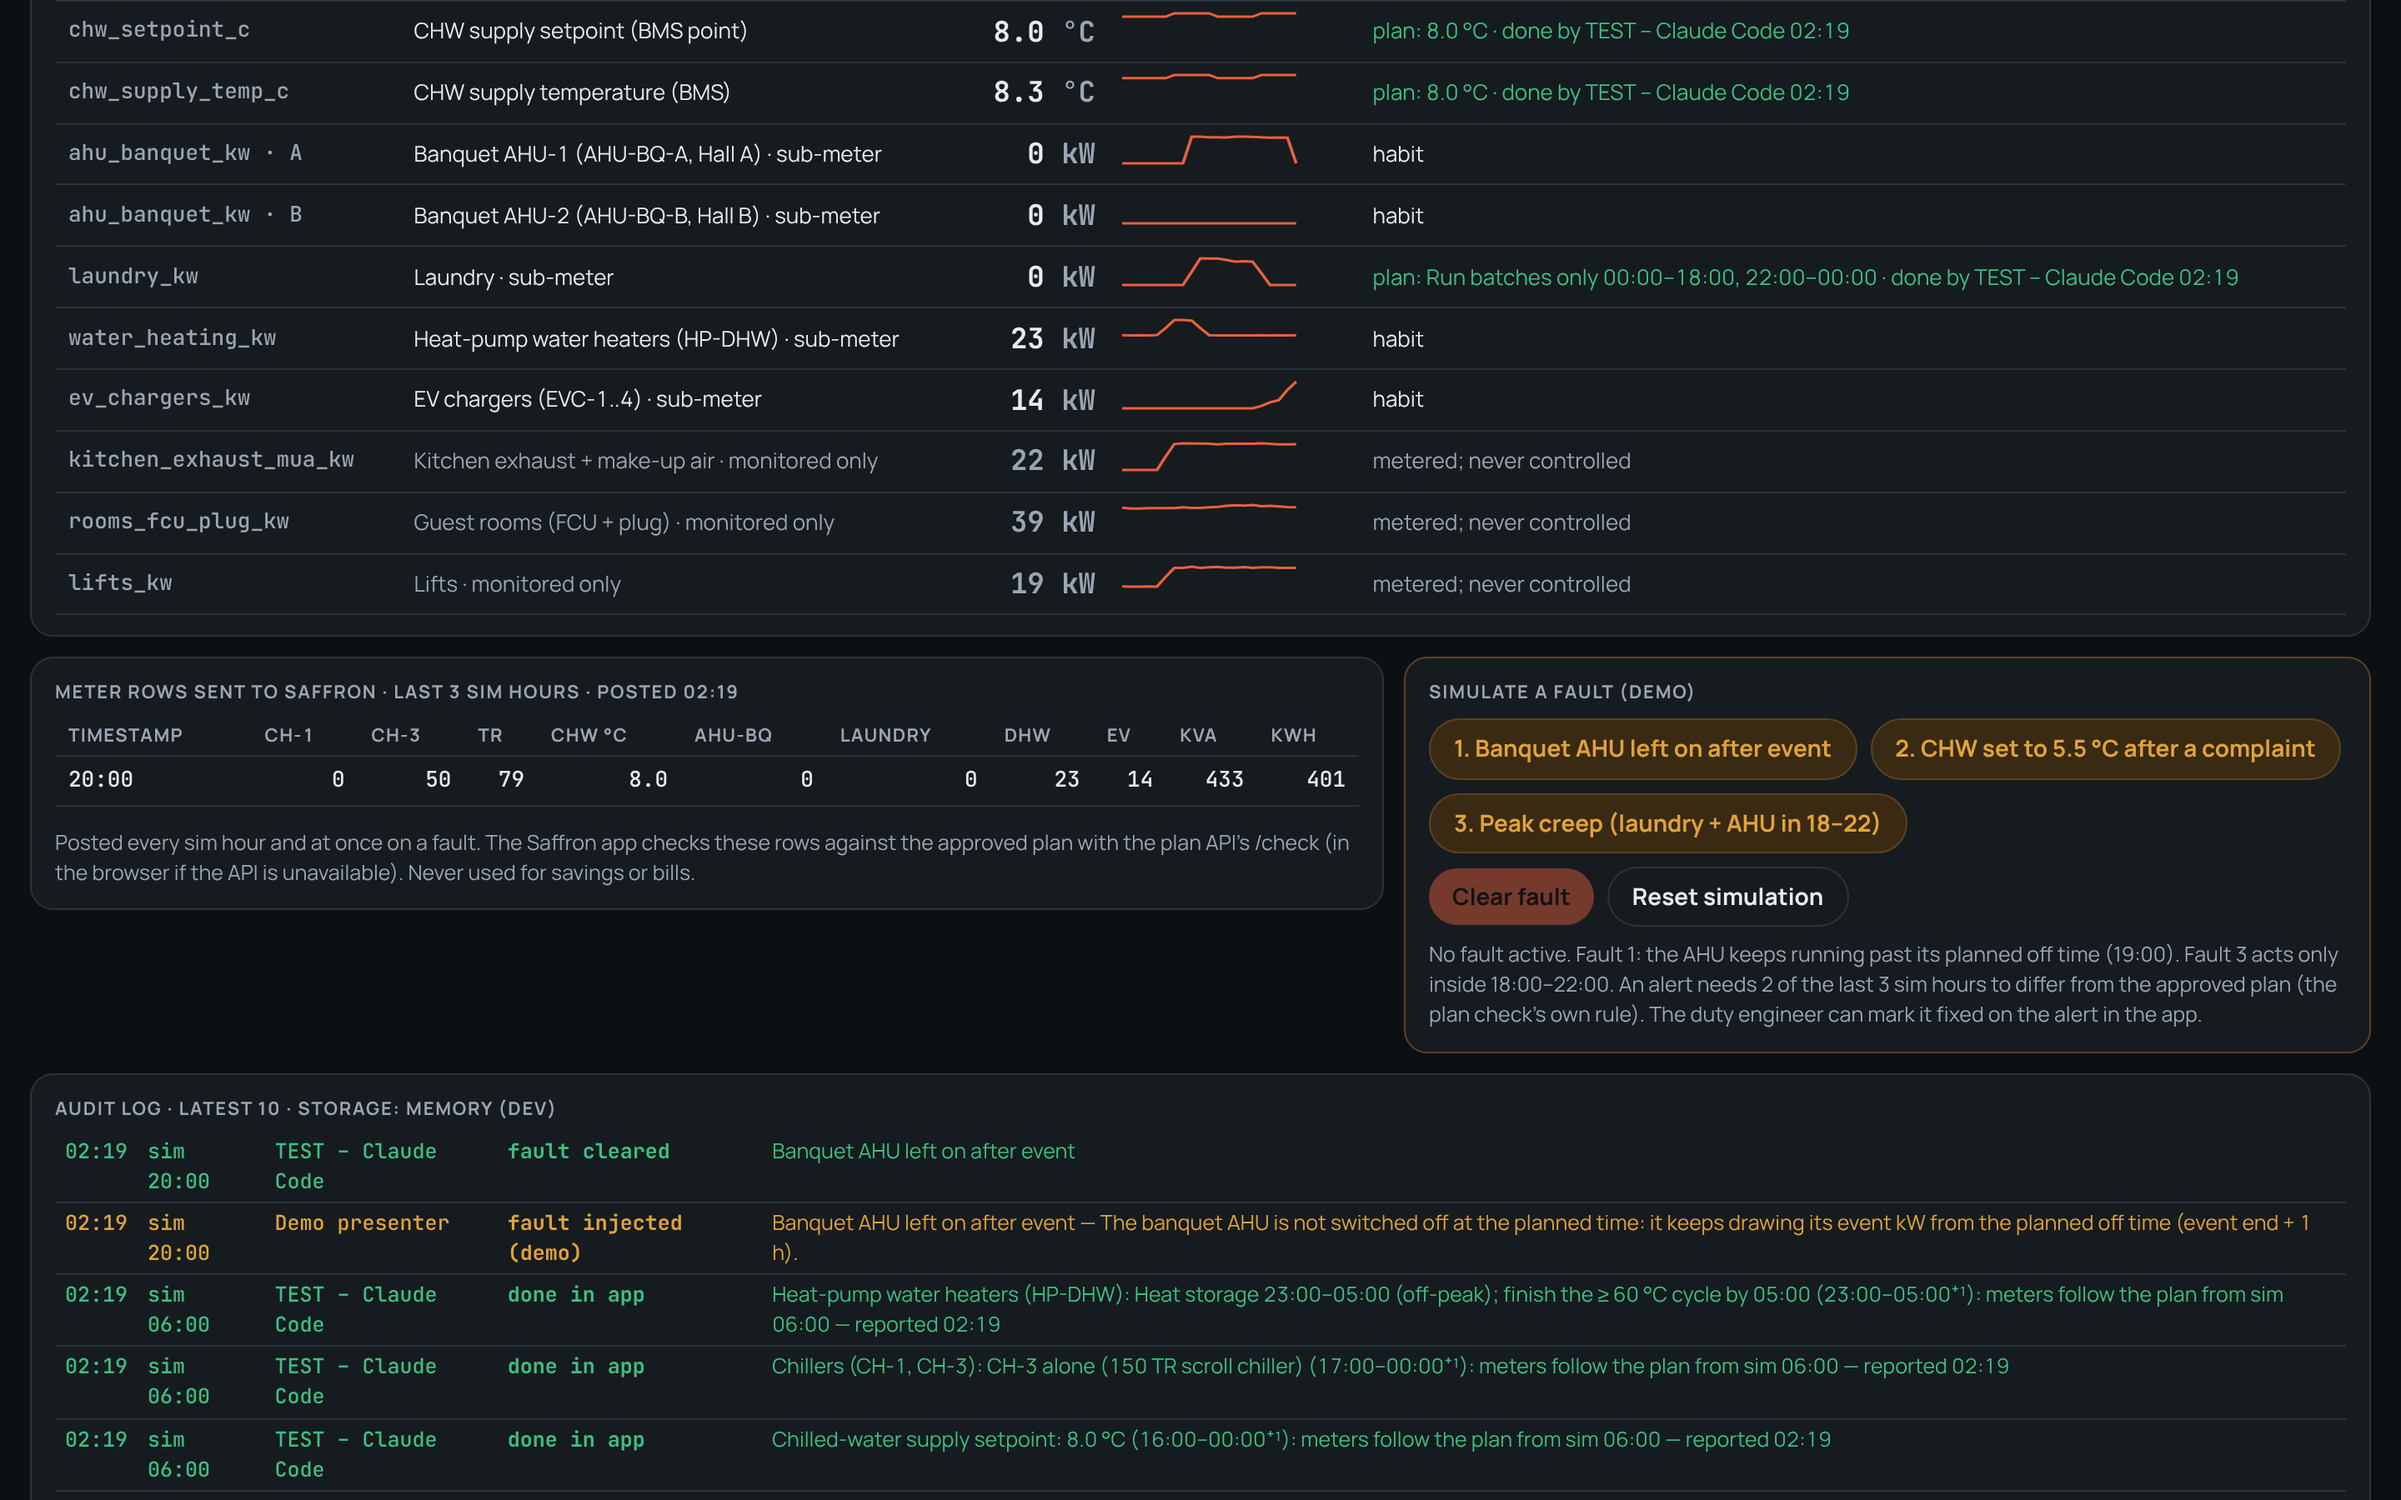
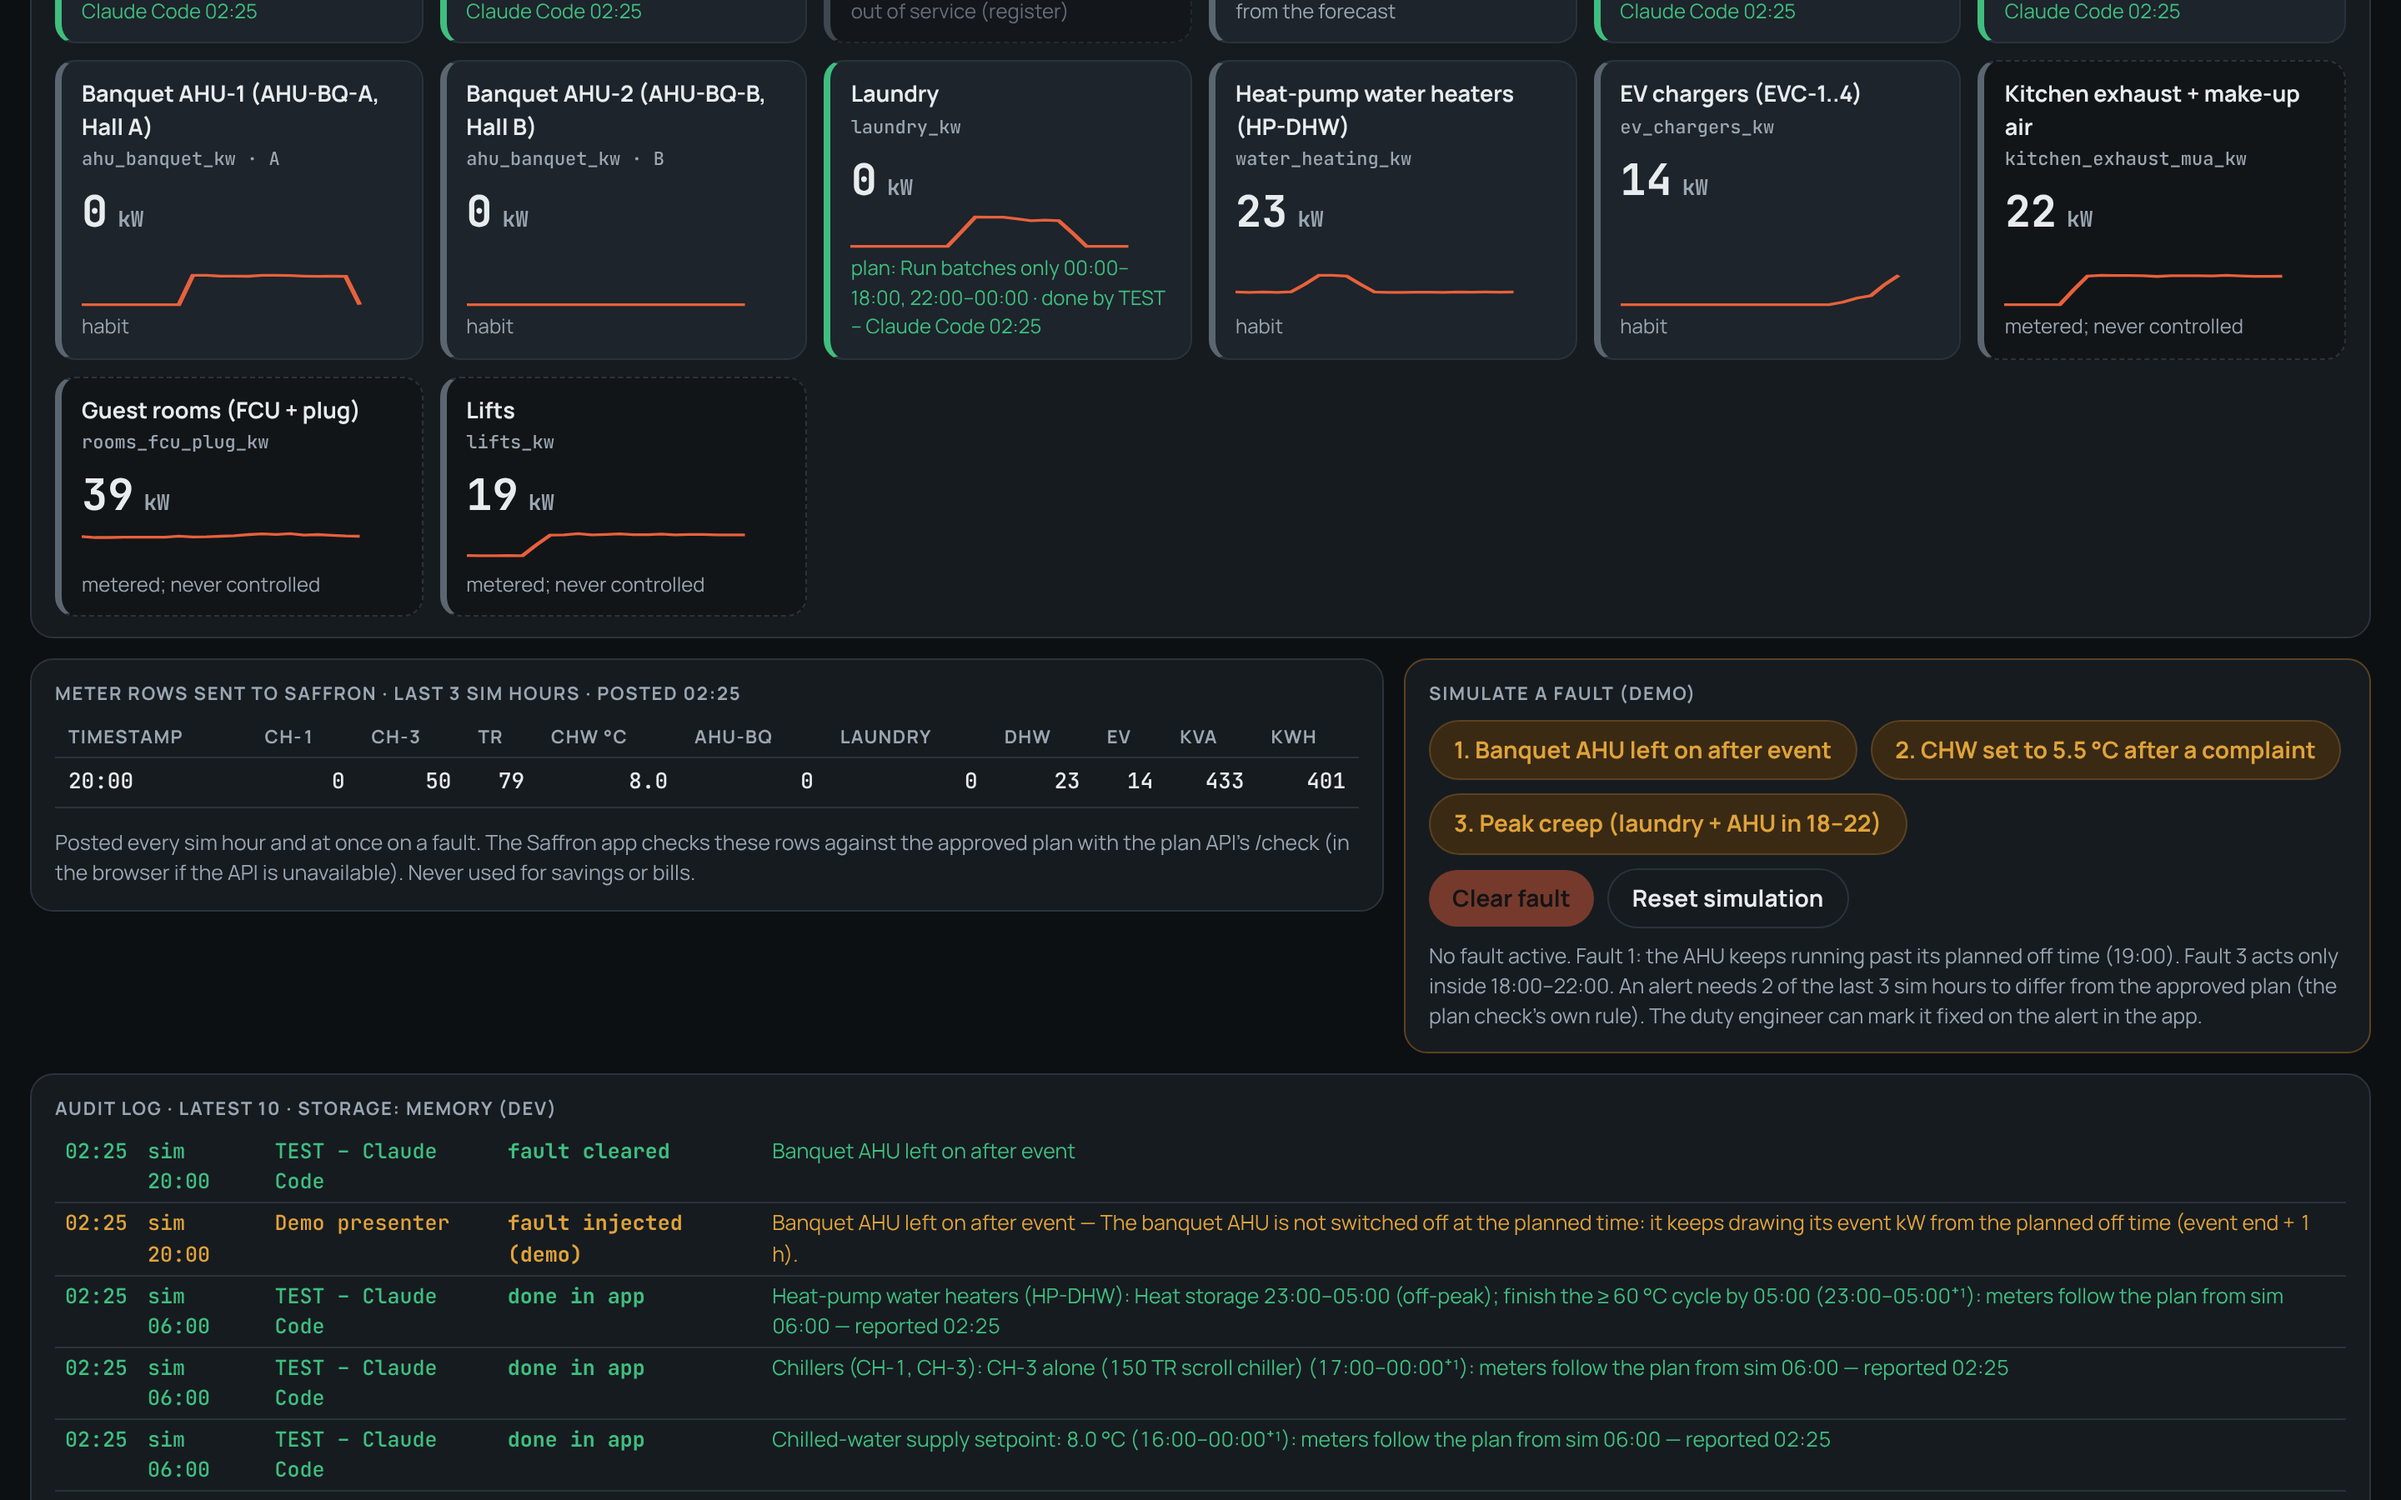
Meter simulator: channels as small meter tiles (read-only)
Claude-Session: https://claude.ai/code/session_0137vY3wCTXEnokpydvZZARK

diff --git a/web/src/plant/PlantApp.tsx b/web/src/plant/PlantApp.tsx
@@ -238,17 +238,17 @@ function Sim({ date, setDate }: { date: string; setDate: (d: string) => void }) 
 
       <section className="pr-panel">
         <div className="pr-lbl">Meter channels · live · sim {hhmm(tc)}</div>
-        <table className="pr-chan num" data-testid="channels"><thead><tr><th>Channel</th><th>Meter / BMS point</th><th>Reading</th><th>Today</th><th>Following</th></tr></thead>
-          <tbody>
-            {CHANNELS.map((c) => { const s = sourceOf(c); return (
-              <tr key={c.id} className={c.monitored ? "mon" : c.oos ? "oos" : ""} data-testid={`chan-${c.id.split(" ")[0]}${c.id.endsWith("B") ? "-B" : c.id.endsWith("A") ? "-A" : ""}`}>
-                <td className="pr-cid">{c.id}</td><td>{c.point}</td>
-                <td className="pr-val">{(c.fmt ?? n0)(c.get(snap))} <span className="muted">{c.unit}</span></td>
-                <td><Spark day={day} st={st} t={tc} get={c.get} /></td>
-                <td className={`pr-src ${s.cls}`}>{s.text}</td>
-              </tr>); })}
-          </tbody>
-        </table>
+        <div className="pr-meters" data-testid="channels">
+          {CHANNELS.map((c) => { const s = sourceOf(c); return (
+            <div key={c.id} className={`pr-mtile ${c.monitored ? "mon" : c.oos ? "oos" : ""} src-${s.cls || "habit"}`}
+                 data-testid={`chan-${c.id.split(" ")[0]}${c.id.endsWith("B") ? "-B" : c.id.endsWith("A") ? "-A" : ""}`}>
+              <div className="pr-mname">{c.point.split(" · ")[0]}</div>
+              <div className="pr-cid">{c.id}</div>
+              <div className="pr-mval num">{(c.fmt ?? n0)(c.get(snap))}<span>{c.unit}</span></div>
+              <Spark day={day} st={st} t={tc} get={c.get} />
+              <div className={`pr-src ${s.cls}`}>{s.text}</div>
+            </div>); })}
+        </div>
       </section>
 
       <section className="pr-split">

diff --git a/web/src/plant/plant.css b/web/src/plant/plant.css
@@ -97,3 +97,17 @@ select, input { background: var(--pr-panel-2); border: 1px solid var(--pr-line);
 .pr-audit tr.okr td { color: var(--pr-green); }
 @media (max-width: 1100px) { .pr-split { grid-template-columns: 1fr; } .pr-chan td:nth-child(4), .pr-chan th:nth-child(4) { display: none; } }
 @media (max-width: 640px) { .pr-chan td:nth-child(2), .pr-chan th:nth-child(2) { display: none; } }
+/* meter channels as small meter tiles (read-only) */
+.pr-meters { display: grid; grid-template-columns: repeat(auto-fill, minmax(200px, 1fr)); gap: 10px; }
+.pr-mtile { background: var(--pr-panel-2); border: 1px solid var(--pr-line); border-left: 4px solid var(--pr-grey); border-radius: 12px; padding: 10px 12px; display: flex; flex-direction: column; gap: 2px; }
+.pr-mtile.src-plan { border-left-color: var(--pr-green); }
+.pr-mtile.src-fault { border-left-color: var(--pr-red); background: #23150f; }
+.pr-mtile.mon, .pr-mtile.oos { border-style: dashed; border-left-style: solid; background: #121518; }
+.pr-mtile.oos { opacity: .6; }
+.pr-mname { font-weight: 700; font-size: 13.5px; }
+.pr-mtile .pr-cid { font-family: "JetBrains Mono", monospace; font-size: 11px; }
+.pr-mval { font-size: 26px; font-weight: 700; margin-top: 2px; }
+.pr-mval span { font-size: 13px; color: var(--pr-text-2); margin-left: 6px; }
+.pr-mtile .pr-spark { width: 100%; height: 22px; }
+.pr-mtile .pr-src { font-size: 12px; color: var(--pr-text-2); }
+.pr-mtile .pr-src.plan { color: var(--pr-green); } .pr-mtile .pr-src.fault { color: var(--pr-red); }
